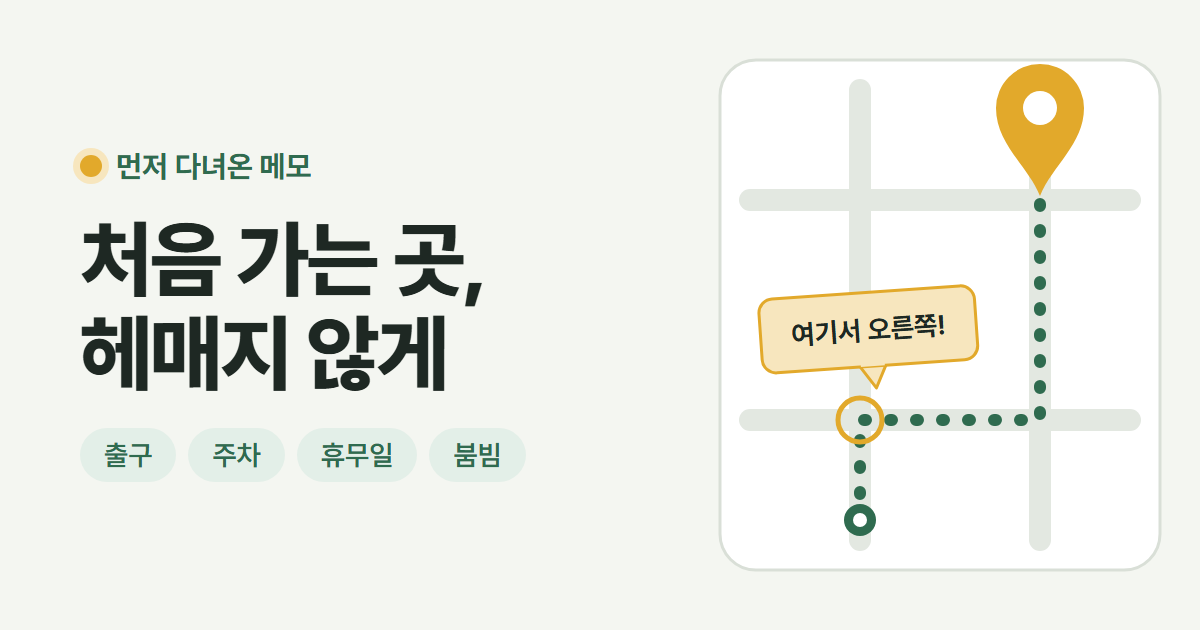
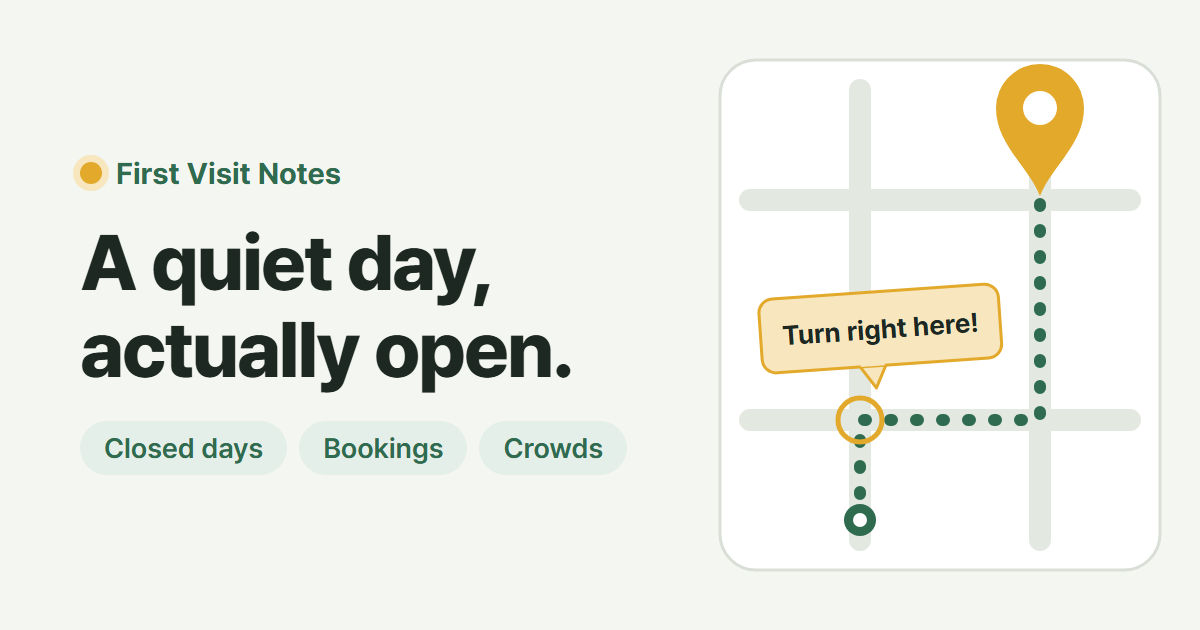
외국인 여행자 중심 1단계: 영어 기본
- 휴대폰 언어는 en·zh·ja 만 인식, 한국어는 언어 버튼으로만 (데이터는 유지)
- 언어 버튼 순서 EN·中文·日本語·한국어, 없는 문구는 영어로 대체
- 첫 화면 설명에 '열려 있으면서 한산한 날' (4개 언어)
- index.html 기본 글자·미리보기 태그·og-image 영어로
- README 소개와 개발 기록

diff --git a/index.html b/index.html
@@ -1,21 +1,25 @@
 <!doctype html>
-<html lang="ko">
+<html lang="en">
 <head>
 <meta charset="utf-8">
 <meta name="viewport" content="width=device-width, initial-scale=1, viewport-fit=cover">
-<title>먼저 다녀온 메모</title>
-<!-- 링크 미리보기 (카카오톡·문자 등): 이름만으로는 무엇인지 몰라서 제목에 하는 일을 먼저 쓴다.
+<title>First Visit Notes</title>
+<!-- 링크 미리보기 (메신저·검색): 한국을 여행하는 외국인이 대상이라 영어가 기본.
      그림 원본은 docs/og-image.html (Chrome 으로 1200×630 크기로 찍어 og-image.png 로 저장) -->
-<meta name="description" content="출구·주차·휴무일·붐빔을 가기 전에 한눈에 확인해요.">
+<meta name="description" content="A quiet day when it's actually open. Closed days, bookings, entry rules and tricky spots for Korea's top sights — in English, 中文 and 日本語.">
 <meta property="og:type" content="website">
-<meta property="og:site_name" content="먼저 다녀온 메모">
-<meta property="og:title" content="처음 가는 곳, 헤매지 않게 · 먼저 다녀온 메모">
-<meta property="og:description" content="출구·주차·휴무일·붐빔을 가기 전에 한눈에 확인해요.">
+<meta property="og:site_name" content="First Visit Notes">
+<meta property="og:locale" content="en_US">
+<meta property="og:locale:alternate" content="zh_CN">
+<meta property="og:locale:alternate" content="ja_JP">
+<meta property="og:locale:alternate" content="ko_KR">
+<meta property="og:title" content="First Visit Notes · Korea's sights, before you go">
+<meta property="og:description" content="A quiet day when it's actually open. Closed days, bookings, entry rules and tricky spots — in one place.">
 <meta property="og:url" content="https://first-visit-guide.vercel.app/">
 <meta property="og:image" content="https://first-visit-guide.vercel.app/og-image.png">
 <meta property="og:image:width" content="1200">
 <meta property="og:image:height" content="630">
-<meta property="og:image:alt" content="처음 가는 곳, 헤매지 않게 — 갈림길에 '여기서 오른쪽!' 메모가 붙은 길 지도 그림">
+<meta property="og:image:alt" content="First Visit Notes — a street map with a note saying 'Turn right here!' at the corner">
 <meta name="twitter:card" content="summary_large_image">
 <!-- 글꼴: 프리텐다드 (화면에 쓰인 글자만 나눠 받는 가벼운 버전) -->
 <link rel="preconnect" href="https://cdn.jsdelivr.net" crossorigin>
@@ -32,13 +36,13 @@
     <div class="top-row">
       <nav class="langs" data-langs aria-label="Language"></nav>
     </div>
-    <h1 data-i18n="h1">지금 여기 가도 될까요?</h1>
-    <p class="sub" data-i18n="sub">붐빔·휴무·헤매기 쉬운 곳을 미리 알려드려요.</p>
+    <h1 data-i18n="h1">Should I go here today?</h1>
+    <p class="sub" data-i18n="sub">A quiet day when it's actually open — plus bookings and tricky spots.</p>
   </header>
   <!-- 지도 앱처럼: 돋보기 아이콘이 붙은 검색창, 내려도 위에 붙어 있다 -->
   <div class="search-box">
     <svg class="search-icon" viewBox="0 0 24 24" aria-hidden="true"><circle cx="11" cy="11" r="6.5"/><path d="M16 16l4.5 4.5"/></svg>
-    <input class="search" id="search" type="search" placeholder="장소 이름이나 지역으로 찾기" aria-label="장소 검색" data-i18n-ph="searchPh" data-i18n-aria="searchLabel">
+    <input class="search" id="search" type="search" placeholder="Search by place or area" aria-label="Search places" data-i18n-ph="searchPh" data-i18n-aria="searchLabel">
   </div>
   <!-- 검색어가 있으면 결과만, 없으면 카테고리별 사진 카드 줄 -->
   <section id="search-results" aria-live="polite" hidden></section>
@@ -47,13 +51,13 @@
 
 <!-- 장소 화면 -->
 <div id="place" hidden>
-  <div class="bar" role="group" aria-label="내 상황" data-i18n-aria="situation">
+  <div class="bar" role="group" aria-label="My situation" data-i18n-aria="situation">
     <div class="bar-inner">
-      <button type="button" class="pill" id="t-lost" aria-pressed="false" data-i18n="lost">길치예요</button>
-      <button type="button" class="pill" id="t-kid" aria-pressed="false" data-i18n="kid">아이와 함께</button>
-      <div class="seg" id="t-mode" role="group" aria-label="이동수단" data-i18n-aria="modeLabel">
-        <button type="button" data-mode="transit" aria-pressed="true" data-i18n="transit">대중교통</button>
-        <button type="button" data-mode="car" aria-pressed="false" data-i18n="car">자차</button>
+      <button type="button" class="pill" id="t-lost" aria-pressed="false" data-i18n="lost">I get lost easily</button>
+      <button type="button" class="pill" id="t-kid" aria-pressed="false" data-i18n="kid">With kids</button>
+      <div class="seg" id="t-mode" role="group" aria-label="Getting there" data-i18n-aria="modeLabel">
+        <button type="button" data-mode="transit" aria-pressed="true" data-i18n="transit">Transit</button>
+        <button type="button" data-mode="car" aria-pressed="false" data-i18n="car">By car</button>
       </div>
     </div>
   </div>
@@ -61,7 +65,7 @@
   <div class="wrap">
     <header>
       <div class="top-row">
-        <a class="back" id="back" href="./" hidden data-i18n="back">← 다른 장소</a>
+        <a class="back" id="back" href="./" hidden data-i18n="back">← Other places</a>
         <nav class="langs" data-langs aria-label="Language"></nav>
       </div>
       <div class="hero" id="hero">
@@ -79,7 +83,7 @@
       <div class="status">
         <p class="wx" id="wx" aria-live="polite">
           <span class="wx-icon" id="w-icon" aria-hidden="true">·</span>
-          <b id="w-main" data-i18n="wxLoading">날씨 불러오는 중…</b>
+          <b id="w-main" data-i18n="wxLoading">Loading weather…</b>
           <span id="w-sub"></span>
         </p>
         <p class="wx crowd" id="crowd" aria-live="polite" hidden>
@@ -98,7 +102,7 @@
           <a id="kr-naver" target="_blank" rel="noopener"></a>
         </div>
         <details class="kr-more">
-          <summary data-i18n="more">더 보기</summary>
+          <summary data-i18n="more">More</summary>
           <p id="kr-maps"></p>
           <p id="kr-hotline"></p>
         </details>
@@ -113,29 +117,29 @@
     </section>
 
     <section id="more-wrap">
-      <h2><span data-i18n="moreTitle">나머지 메모</span> <small id="more-count"></small></h2>
+      <h2><span data-i18n="moreTitle">More notes</span> <small id="more-count"></small></h2>
       <ul class="notes" id="notes-more"></ul>
     </section>
 
     <!-- 지금 상황 + 방문자 한 줄 제보를 한 덩어리로: 요약 한 줄 → 빠른 문장 → 입력칸 → 제보 목록 -->
     <section class="reports" aria-labelledby="now-title">
-      <h2 id="now-title" data-i18n="nowTitle">지금 상황</h2>
+      <h2 id="now-title" data-i18n="nowTitle">Right now</h2>
       <p class="live">
-        <small data-i18n="nowBusy">지금 붐비나요</small>
-        <b id="r-main">제보 0건</b>
-        <em id="r-sub" data-i18n="reportsSub">최근 3시간 방문자 제보</em>
+        <small data-i18n="nowBusy">Is it busy now?</small>
+        <b id="r-main">0 reports</b>
+        <em id="r-sub" data-i18n="reportsSub">Visitor reports from the last 3 hours</em>
       </p>
-      <form id="r-form" autocomplete="off" aria-label="방문자 한 줄 제보" data-i18n-aria="reportsTitle">
-        <div class="quick" id="r-quick" aria-label="자주 쓰는 제보" data-i18n-aria="quickLabel">
-          <button type="button" data-i18n="quick.0">입구 줄 길어요</button>
-          <button type="button" data-i18n="quick.1">사람 많아요</button>
-          <button type="button" data-i18n="quick.2">한산해요</button>
-          <button type="button" data-i18n="quick.3">주차장 만차</button>
-          <button type="button" data-i18n="quick.4">화장실 줄 길어요</button>
+      <form id="r-form" autocomplete="off" aria-label="One-line visitor reports" data-i18n-aria="reportsTitle">
+        <div class="quick" id="r-quick" aria-label="Quick reports" data-i18n-aria="quickLabel">
+          <button type="button" data-i18n="quick.0">Long line at the entrance</button>
+          <button type="button" data-i18n="quick.1">Crowded</button>
+          <button type="button" data-i18n="quick.2">Quiet</button>
+          <button type="button" data-i18n="quick.3">Parking full</button>
+          <button type="button" data-i18n="quick.4">Long restroom line</button>
         </div>
         <div class="r-row">
-          <input id="r-text" type="text" maxlength="40" placeholder="지금 여기 어때요? (40자까지)" aria-label="제보 내용" data-i18n-ph="rPh" data-i18n-aria="rLabel">
-          <button type="submit" id="r-send" data-i18n="rSend">등록</button>
+          <input id="r-text" type="text" maxlength="40" placeholder="How is it here now? (up to 40 characters)" aria-label="Report" data-i18n-ph="rPh" data-i18n-aria="rLabel">
+          <button type="submit" id="r-send" data-i18n="rSend">Post</button>
         </div>
         <p class="r-msg" id="r-msg" role="status"></p>
         <p class="r-note" id="r-note"></p>
@@ -149,22 +153,22 @@
 
 <!-- 불러오기 실패 안내 -->
 <div class="wrap" id="error" hidden>
-  <p class="brief" data-i18n-html="error">장소 정보를 불러오지 못했어요. 주소를 확인하거나 <a href="./">처음 화면</a>으로 돌아가 주세요.</p>
+  <p class="brief" data-i18n-html="error">Couldn't load this place. Check the address or go back to the <a href="./">home screen</a>.</p>
 </div>
 
 <!-- 사진 크게 보기 -->
 <dialog id="viewer">
   <img id="viewer-img" alt="">
   <p id="viewer-cap"></p>
-  <form method="dialog"><button data-i18n="close">닫기</button></form>
+  <form method="dialog"><button data-i18n="close">Close</button></form>
 </dialog>
 
 <!-- 장소 화면 첫 방문 코치마크: 위쪽 버튼 4개를 짚어 주는 안내. 위치·화살표는 app.js 가 실제 버튼 자리를 재서 그린다.
      어둡게 가리기·강조 테두리·화살표는 svg, 말풍선은 글자라서 div 로 둔다. 아무 곳이나 누르거나 Esc 로 닫힌다. -->
-<dialog class="coach" id="coach" aria-label="화면 안내" data-i18n-aria="coachLabel">
+<dialog class="coach" id="coach" aria-label="Quick guide" data-i18n-aria="coachLabel">
   <svg class="coach-svg" id="coach-svg" aria-hidden="true"></svg>
   <div id="coach-tips"></div>
-  <button type="button" class="coach-ok" id="coach-ok" autofocus data-i18n="coachOk">알겠어요</button>
+  <button type="button" class="coach-ok" id="coach-ok" autofocus data-i18n="coachOk">Got it</button>
 </dialog>
 
 <script src="ui-text.js"></script>

diff --git a/docs/og-image.html b/docs/og-image.html
@@ -2,7 +2,7 @@
 <!-- 링크 미리보기 그림 원본 (1200×630). 고친 뒤 다시 만드는 법:
      chrome --headless=new --hide-scrollbars --window-size=1200,630 --virtual-time-budget=5000 --screenshot=og-image.png docs/og-image.html
      사진은 쓰지 않고 도형으로만 그렸다 (저작권 걱정 없음). -->
-<html lang="ko">
+<html lang="en">
 <head>
 <meta charset="utf-8">
 <link rel="stylesheet" href="https://cdn.jsdelivr.net/gh/orioncactus/pretendard@v1.3.9/dist/web/variable/pretendardvariable.min.css">
@@ -13,7 +13,7 @@
   .text { position: absolute; left: 80px; top: 0; bottom: 0; width: 600px; display: flex; flex-direction: column; justify-content: center; gap: 28px; }
   .brand { display: flex; align-items: center; gap: 14px; font-size: 30px; font-weight: 700; color: #2F6B4F; }
   .brand i { width: 22px; height: 22px; border-radius: 50%; background: #E2A92B; box-shadow: 0 0 0 7px #F7E6BE; }
-  h1 { font-size: 84px; line-height: 1.12; font-weight: 800; letter-spacing: -0.03em; }
+  h1 { font-size: 78px; line-height: 1.12; font-weight: 800; letter-spacing: -0.03em; }
   .chips { display: flex; gap: 12px; }
   .chips span { font-size: 28px; font-weight: 600; color: #2F6B4F; background: #E3EFE8; border-radius: 999px; padding: 10px 24px; }
   svg { position: absolute; right: 0; top: 0; }
@@ -21,9 +21,9 @@
 </head>
 <body>
   <div class="text">
-    <div class="brand"><i></i>먼저 다녀온 메모</div>
-    <h1>처음 가는 곳,<br>헤매지 않게</h1>
-    <div class="chips"><span>출구</span><span>주차</span><span>휴무일</span><span>붐빔</span></div>
+    <div class="brand"><i></i>First Visit Notes</div>
+    <h1>A quiet day,<br>actually open.</h1>
+    <div class="chips"><span>Closed days</span><span>Bookings</span><span>Crowds</span></div>
   </div>
   <!-- 오른쪽: 길 지도 그림 (직접 그린 도형) — 출발점에서 헷갈리는 갈림길을 지나 목적지 핀까지 -->
   <svg width="520" height="630" viewBox="0 0 520 630">
@@ -38,9 +38,9 @@
     <circle cx="180" cy="420" r="22" fill="none" stroke="#E2A92B" stroke-width="5"/>
     <g transform="translate(78 300) rotate(-4)">
       <path d="M96 72 L112 96 L124 72 Z" fill="#F7E6BE" stroke="#E2A92B" stroke-width="3" stroke-linejoin="round"/>
-      <rect width="216" height="74" rx="14" fill="#F7E6BE" stroke="#E2A92B" stroke-width="3"/>
+      <rect width="240" height="74" rx="14" fill="#F7E6BE" stroke="#E2A92B" stroke-width="3"/>
       <rect x="98" y="66" width="24" height="8" fill="#F7E6BE"/>
-      <text x="108" y="47" text-anchor="middle" font-family="Pretendard Variable, sans-serif" font-size="27" font-weight="700" fill="#1E2823">여기서 오른쪽!</text>
+      <text x="120" y="47" text-anchor="middle" font-family="Pretendard Variable, sans-serif" font-size="27" font-weight="700" fill="#1E2823">Turn right here!</text>
     </g>
     <!-- 목적지 핀 -->
     <g transform="translate(360 196)">

diff --git a/ui-text.js b/ui-text.js
@@ -2,18 +2,19 @@
 // 장소 메모 번역은 places/<장소>/i18n.json 에 따로 있다. 여기에는 장소와 상관없는 화면 글자만 둔다.
 // 값이 함수인 것은 숫자·날짜 같은 값을 받아 문장을 만든다.
 
+// 외국인 여행자용이라 영어를 맨 앞에, 한국어는 맨 뒤에 둔다 (택시·표지판용 한국어 표기는 그대로 쓴다)
 const LANGS = [
-  { id: "ko", label: "한국어" },
   { id: "en", label: "EN" },
   { id: "zh", label: "中文" },
-  { id: "ja", label: "日本語" }
+  { id: "ja", label: "日本語" },
+  { id: "ko", label: "한국어" }
 ];
 
 const UI = {
   ko: {
     appName: "먼저 다녀온 메모",
     h1: "지금 여기 가도 될까요?",
-    sub: "붐빔·휴무·헤매기 쉬운 곳을 미리 알려드려요.",
+    sub: "문 열고 한산한 날을 골라 드려요. 예약·헤매기 쉬운 곳도요.",
     searchPh: "장소 이름이나 지역으로 찾기",
     searchLabel: "장소 검색",
     count: n => `${n}곳`,
@@ -73,7 +74,7 @@ const UI = {
     appName: "First Visit Notes",
     credits: { "한국관광공사": "Korea Tourism Organization", "해외문화홍보원": "Korean Culture and Information Service", "공공누리 제1유형": "KOGL Type 1", "퍼블릭 도메인": "public domain", "저녁": "evening" },
     h1: "Should I go here today?",
-    sub: "Crowds, closed days and easy-to-miss spots, before you go.",
+    sub: "A quiet day when it's actually open — plus bookings and tricky spots.",
     searchPh: "Search by place or area",
     searchLabel: "Search places",
     count: n => `${n}`,
@@ -150,7 +151,7 @@ const UI = {
     appName: "初次到访笔记",
     credits: { "한국관광공사": "韩国观光公社", "해외문화홍보원": "韩国海外文化弘报院", "공공누리 제1유형": "KOGL 第1类", "퍼블릭 도메인": "公有领域", "저녁": "傍晚" },
     h1: "今天去这里合适吗？",
-    sub: "提前了解拥挤程度、休息日和容易迷路的地方。",
+    sub: "找一个开门又不拥挤的日子，再看预约和容易迷路的地方。",
     searchPh: "按地点名称或地区搜索",
     searchLabel: "搜索地点",
     count: n => `${n}处`,
@@ -227,7 +228,7 @@ const UI = {
     appName: "はじめての場所メモ",
     credits: { "한국관광공사": "韓国観光公社", "해외문화홍보원": "韓国海外文化広報院", "공공누리 제1유형": "KOGL 第1類型", "퍼블릭 도메인": "パブリックドメイン", "저녁": "夕方" },
     h1: "今日ここに行っても大丈夫？",
-    sub: "混み具合・休みの日・迷いやすい所を先にお知らせ。",
+    sub: "開いていて空いている日を。予約や迷いやすい所も。",
     searchPh: "場所の名前や地域で探す",
     searchLabel: "場所を検索",
     count: n => `${n}か所`,

diff --git a/app.js b/app.js
@@ -19,9 +19,10 @@ function pickLang() {
     return q;
   }
   try { const saved = localStorage.getItem(LANG_KEY); if (ids.includes(saved)) return saved; } catch { /* 무시 */ }
+  // 외국인 여행자용: 휴대폰 언어는 영어·중국어·일본어만 알아본다. 한국어는 언어 버튼(?lang=ko)으로만 고른다.
   for (const l of navigator.languages ?? [navigator.language]) {
     const two = String(l).slice(0, 2).toLowerCase();
-    if (ids.includes(two)) return two;
+    if (["en", "zh", "ja"].includes(two)) return two;
   }
   return "en";
 }
@@ -31,7 +32,7 @@ const foreign = lang !== "ko";
 let placeT = null; // 이 장소의 번역 (i18n.json 에서 고른 언어 부분, 없으면 null)
 
 function t(key, ...args) {
-  const v = T[key] ?? UI.ko[key];
+  const v = T[key] ?? UI.en[key] ?? UI.ko[key];
   return typeof v === "function" ? v(...args) : v;
 }
 // 한국어 낱말 → 번역 (메모 분류, 확인 필요 표시, 날씨 등). 없으면 한국어 그대로

diff --git a/README.md b/README.md
@@ -1,9 +1,11 @@
-# 먼저 다녀온 메모 (가제)
+# First Visit Notes (먼저 다녀온 메모)
 
-> "AI가 내 목적지에 30분 먼저 다녀와서 알려주는" 처음 가는 곳 안내 웹앱
+> **Not just a quiet day — a quiet day when it's actually open.**
+> Closed days, bookings, entry rules and tricky spots for Korea's top sights, on one screen — in English, 中文, 日本語 (and 한국어).
 
-처음 가는 장소로 이동 중인 사람, 특히 **길치**와 **미취학 아이와 함께 가는 사람**을 위해
-흩어진 후기를 "내 상황에 맞는 순서"로 다시 정리해 보여준다.
+한국을 여행하는 외국인을 위한 "처음 가는 곳" 안내 웹앱. 장소마다 흩어진 출입 필수 정보(휴무·예약·입장 조건),
+헤매기 쉬운 곳, 붐빔, 날씨를 "내 상황에 맞는 순서"로 한 화면에 보여준다.
+처음에는 한국인 길치·아이 동반 가족용으로 시작했고, 2026-11-01에 외국인 여행자 중심으로 방향을 바꿨다(아래 개발 기록).
 
 **사이트**: https://first-visit-guide.vercel.app
 
@@ -495,6 +497,29 @@ prototype/index.html            처음 만든 시험판 (보관용)
 - **한계**: 장소 링크(`?place=`)도 같은 미리보기가 나온다. 장소 화면은 브라우저에서 JavaScript로 그리는데, 메신저는 JavaScript를 실행하지 않기 때문이다.
   장소마다 다른 미리보기를 보여 주려면 서버에서 HTML을 만들어야 해서 보류했다.
 
+### 외국인 여행자 중심으로 방향 전환 — 1단계: 영어를 기본으로 (2026-11-01)
+- **왜 바꿨나**: 한국인은 지도 앱 후기·블로그로 이런 정보를 이미 쉽게 얻는다.
+  외국인은 휴무·예약·입장 조건·결제 장벽을 한곳에서 영어로 볼 곳이 드물다. 수익화($3 평생 이용권)도 이 사람들을 대상으로 한다.
+- **경쟁 조사에서 찾은 빈자리** (서비스 이름은 쓰지 않는다)
+  - 혼잡 예측 앱 하나는 "30일 중 가장 여유로운 날"을 추천하는데, 확인한 4곳 중 3곳에서 그날이 **쉬는 날**이었다.
+  - 공식 관광 사이트와 여행 예약 사이트는 휴무·예약 안내를 적어 두지만, 여러 페이지에 흩어져 있고 일부는 낡았다.
+  - 그래서 "휴무일 표시"만으로는 차별점이 아니다. 차별점은 **휴무를 뺀 한산한 날 계산**, **출입 함정 한곳 요약**, (다음 단계) **그래도 꼭 가야 하는 날 모드**다.
+- **문구에 쓰기 전에 사실부터 확인**: 첫 화면에 "열려 있으면서 한산한 날"을 쓰기 전에 코드를 확인했다.
+  붐빔 판단(`judgeCrowd`)이 이미 휴무 요일을 빼고 한산한 날을 고르고 있어서, 기능을 과장하지 않는 문구가 된다.
+- **"외국인 전용" = 기본값만 바꾸기 (한국어는 지우지 않음)**
+  - 택시 기사에게 보여줄 한국어 이름·주소, 표지판의 한국어 표기가 외국인에게도 필요하다. 그래서 한국어 화면과 데이터를 남겼다.
+  - 언어 고르는 순서: 주소의 `?lang` → 전에 고른 언어 → 휴대폰 언어 → 영어.
+    이때 **휴대폰 언어는 영어·중국어·일본어만 알아보게** 했다. 한국어 휴대폰이어도 영어로 시작하고, 한국어는 언어 버튼으로만 고른다.
+    한국어 휴대폰 브라우저로 열어 실제로 영어가 나오는 것을 확인했다.
+  - 언어 버튼 순서도 EN · 中文 · 日本語 · 한국어로 바꿨다. 버튼을 짚는 화살표 안내가 바뀐 자리에서도 겹치지 않는지 다시 확인했다.
+- **화면 안 기본 글자도 영어로**: `index.html`에 적힌 글자는 자바스크립트가 바꿔 끼우기 전에 잠깐 보이고, 검색엔진과 메신저가 읽는 글자다.
+  손으로 하나씩 옮기지 않고, `ui-text.js`의 영어 문구를 그대로 넣는 작은 스크립트로 36곳을 바꿨다(오타·누락 방지).
+- **링크 미리보기**: 제목·설명·그림을 영어로 다시 만들었다("A quiet day, actually open." + 갈림길의 "Turn right here!" 메모).
+  - 장소마다 다른 미리보기는 4단계(검색 노출)로 미뤘다. 4단계에서 장소·언어별 페이지를 미리 만들면 미리보기도 함께 해결된다.
+    지금 따로 서버 코드를 만들면 같은 일을 두 번 하게 된다.
+- **요청서와 실제 코드가 달랐던 점**: 요청서에는 23곳, `make-og.mjs`·`api/share.js`가 있다고 적혀 있었다.
+  실제로는 아울렛을 뺀 18곳이고, 두 파일은 아직 없었다. 작업 전에 저장소를 먼저 읽어 바로잡았다.
+
 ### 장소 대표 사진
 - **피드백**: "장소 이름 칸 높이를 두 배로 늘리고 장소 사진을 배경으로 넣으면 어때?" 처음 가는 곳은 "아, 여기구나" 하고
   눈으로 알아보는 게 중요해서 좋은 아이디어였다.
@@ -560,6 +585,7 @@ prototype/index.html            처음 만든 시험판 (보관용)
 - [x] ~~아울렛 5곳 추가~~ → 같은 날 앱 성격에 맞지 않아 다시 뺌 (2026-10-31, 18곳 유지)
 - [x] 처음 온 사람용 화살표 안내 + 화면 전체 정리 (4개 언어, 2026-10-31)
 - [x] 링크 미리보기 (제목·설명·직접 그린 그림, 2026-10-31)
+- [x] 외국인 여행자 중심 1단계: 영어 기본·문구·링크 미리보기 (2026-11-01)
 
 ### 다음에 해볼 것
 - 나머지 15곳 외국인 장벽 조사 (체크리스트 9번)
